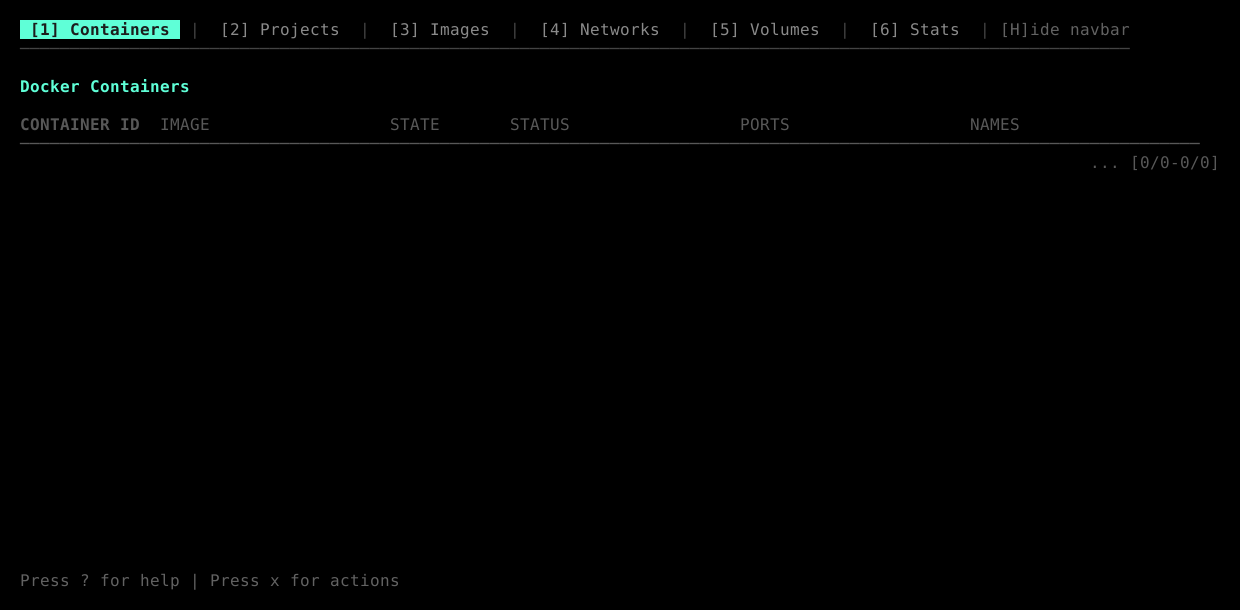
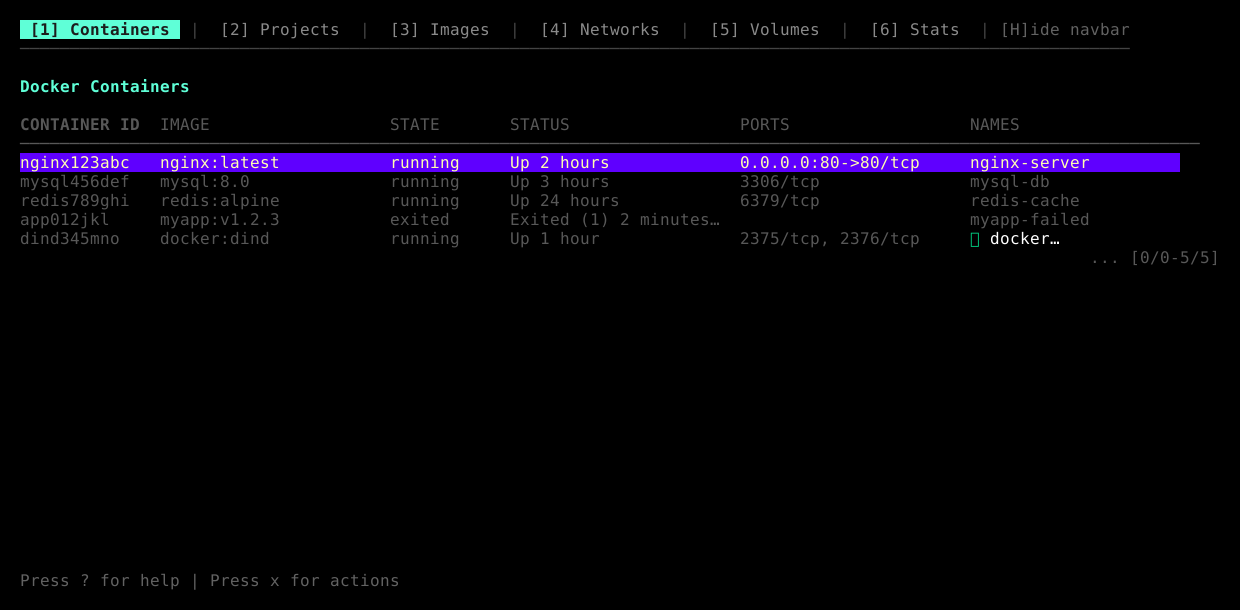
fix: update SetDockerContainers to properly initialize table rows
Fixed the screenshot generation issue where Docker container list view
was showing no containers. The SetDockerContainers method now properly
builds and sets the table rows, matching the pattern used in SetImages.

Changed region(s): [[0.0, 0.2492, 0.9806, 0.4049], [0.5823, 0.3738, 0.7355, 0.4049], [0.9194, 0.4049, 0.9806, 0.4361]]

diff --git a/internal/ui/screenshot_helpers.go b/internal/ui/screenshot_helpers.go
@@ -35,6 +35,12 @@ func (m *Model) GetDockerContainerListViewModel() *DockerContainerListViewModel 
 
 func (vm *DockerContainerListViewModel) SetDockerContainers(containers []models.DockerContainer) {
 	vm.dockerContainers = containers
+	// Build rows for table rendering
+	vm.Rows = vm.buildRows()
+	// Set End to show all rows initially
+	if len(vm.Rows) > 0 {
+		vm.End = len(vm.Rows)
+	}
 }
 
 func (m *Model) GetImageListViewModel() *ImageListViewModel {
